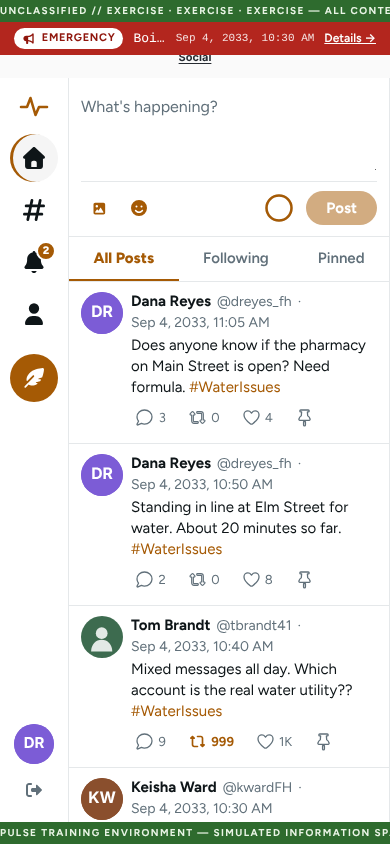
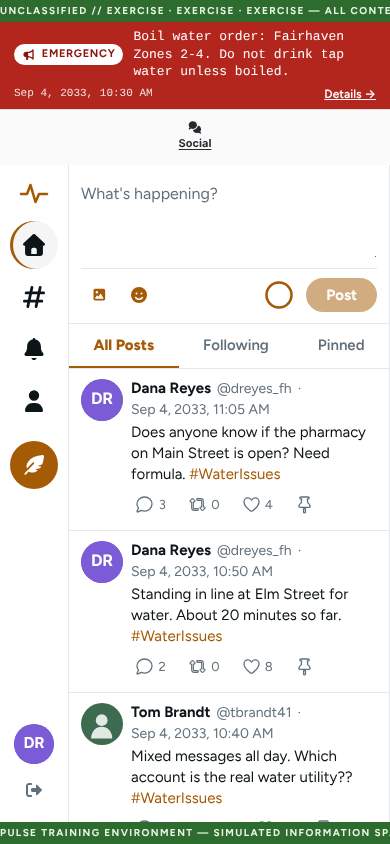
docs(guide): refresh alert-bar shot; add the Alerts (Details) page shot
- Re-capture participant-alert-bar.png with the guide-screenshots tool:
  the wrapped mobile alert bar (full message, no "Boi…" truncation, no
  overlap with the channel nav) from #562.
- New `participant-alerts` shot in capture.mjs: taps "Details →" and
  captures the /alerts page.
- Participant guide §5: one short paragraph on Details → and the new image.

Claude-Session: https://claude.ai/code/session_01TCodWKvYaHXBpJ4oXGJFre

diff --git a/docs/guide/participant-guide.md b/docs/guide/participant-guide.md
@@ -65,6 +65,11 @@ accounts are part of the exercise.
 
 ![An alert bar across the top of the exercise feed.](img/participant-alert-bar.png)
 
+Tap **Details →** on the alert bar to read every active alert in full, with the scenario time each
+one was issued. Use the back arrow to return to the feed.
+
+![The Alerts page, listing each active alert with its severity, full message and scenario time.](img/participant-alerts.png)
+
 ## 6. "We'll be right back" or "EXERCISE PAUSED"
 
 ![The holding page that players see while the exercise is paused.](img/participant-holding-page.png)
